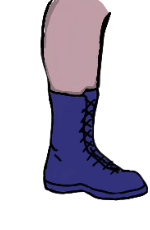
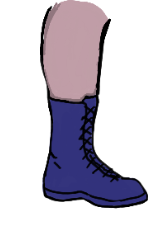
Adopt authored internal joint pivots for arms/legs; drop screen-space offsets
Replaces the earlier shoulder-overlap hack and per-pose screen-space forearm/
shin offsets with authored internal pivots (jointPivotFrac), fixing three
regressions Derek reported: shoulders reading as "football pads," Thesz's
elbows/knees separating, and George's elbow drifting as the arm rotated.

- Skeleton.js: remove RIG.SHOULDER_OVERLAP (upper arm now anchors at its true
  authored shoulder row instead of being pulled back to fake overlap, which
  was swelling the deltoid). Default elbow is now a stable hinge
  (forearm = upperArm + facing*0.78, ~45deg) instead of the drifting
  arm*1.1+0.52. Back the forearm off along its own axis so the elbow root
  can't orbit during a bend; far elbow uses the FAR_ARM_SCALE-rendered bone
  length so Lou's forearm no longer floats past the painted elbow. Split
  far/near arm depth bands by a hair so the upper-arm cap masks the forearm
  overlap slack. Record jointAttachmentPoints for the audit.
- thesz.js/george.js: forearm and Thesz's shin now carry jointPivotFrac and
  drop the pose-dependent screen-space offsets (kept only depth-bias
  cancellation).
- Re-cut thesz forearm.png/shin.png via the cutter's new jointPivotParts so
  the flesh overlap above the elbow/knee is preserved instead of flattened
  into an exposed cap.

Verified on Node 22: npm test 43/43, build clean, git diff --check clean,
joint-attachment audit 40/40 at 0.00px ink gap (both wrestlers, both facings,
[…]

Changed region(s): [[0.2667, 0.0, 0.9867, 0.913]]

diff --git a/src/Skeleton.js b/src/Skeleton.js
@@ -87,14 +87,6 @@ const TAU = Math.PI * 2;
 // dev-tool seam as P/TEX above) — each value keeps its original name and
 // meaning, and nothing in the game writes to it.
 export const RIG = {
-    // Upper arms use the same parent/child overlap rule as hips, elbows, and
-    // knees. Without a shoulder overlap the arm texture merely butt-joins the
-    // torso at one row; a strong bend (hammerlock, guard, get-up) rotates that
-    // flat edge into view and the wrestler appears to come apart. Textures
-    // with authored overlap metadata (`jointPivotFrac`) anchor directly at
-    // the true shoulder instead; this is the safe fallback for legacy and
-    // future wrestlers whose art has no metadata yet.
-    SHOULDER_OVERLAP: 12,
     // Unscaled px the forearm's placement pulls back up the upper-arm bone
     // (see updateUpright's far/near arm blocks) so a bent elbow doesn't show a
     // wedge-shaped gap between the two rotated rectangles.
@@ -445,8 +437,12 @@ export default class Skeleton {
         // constructed after the leg, so it always drew on top, poking the far
         // hand through the trunks instead of tucking behind the far thigh
         // (Derek, 2026-07-15). Split into two bands so the far leg wins.
-        this.farUpArm.setDepth(base);
+        // Parent cap draws over the child's authored overlap band. If the
+        // forearm wins this tie, that band sweeps across the upper-arm end as
+        // the elbow bends and the joint appears to drift. The tiny split is
+        // contained inside each existing far/near depth band.
         this.farForearm.setDepth(base);
+        this.farUpArm.setDepth(base + 0.00001);
         this.farThigh.setDepth(base + 0.0001);
         this.farShin.setDepth(base + 0.0001);
         this.farBoot?.setDepth(base + 0.0001);
@@ -456,8 +452,8 @@ export default class Skeleton {
         this.nearThigh.setDepth(base + 0.003);
         this.nearShin.setDepth(base + 0.003);
         this.nearBoot?.setDepth(base + 0.003);
-        this.nearUpArm.setDepth(base + 0.004);
         this.nearForearm.setDepth(base + 0.004);
+        this.nearUpArm.setDepth(base + 0.00401);
     }
 
     setVisible(v) {
@@ -553,9 +549,11 @@ export default class Skeleton {
         const below = (1 - childImg.originY) * childImg.displayHeight - localY;
         const side = childImg.displayWidth / 2 - Math.abs(localX);
         this.jointAttachmentMargins ??= {};
+        this.jointAttachmentPoints ??= {};
         this.jointAttachmentMargins[name] = {
             above, below, side, min: Math.min(above, below, side),
         };
+        this.jointAttachmentPoints[name] = { x: jointX, y: jointY };
     }
 
     // World-space endpoint (bottom) of a limb given its pivot and length.
@@ -582,6 +580,7 @@ export default class Skeleton {
 
     updateUpright(x, y, s, facing, pose, walkPhase, combatBlend = 0, lean = 0, moveBlend = 0, liftScale = 1, runBlend = 0) {
         this.jointAttachmentMargins = {};
+        this.jointAttachmentPoints = {};
         const thighH    = this._thighH * s;
         const shinH     = this._shinH  * s;
         const bootH     = P.bootH     * s;
@@ -652,9 +651,13 @@ export default class Skeleton {
         let rArmAng = facing * pose.rArm + swing * armSwing;
         // Walk: mild arm-tracking so forearm swings back with the arm and folds
         // slightly inward on the upswing — run elbow code below overrides at runBlend→1.
-        // Base bend ~30deg (0.52 rad) so the elbow reads as a relaxed bend
-        // instead of hanging straight off the upper arm (Derek, 2026-07-12).
-        const FOREARM_BEND = 0.52;
+        // Keep the default elbow as a real hinge: forearm angle is the upper
+        // arm angle plus a stable relative bend. The old `arm * 1.1 + .52`
+        // relationship slowly changed the joint angle while the shoulder
+        // moved, which made the overlapping artwork look as though it slid
+        // around the elbow; its ~30deg baseline also read almost straight at
+        // game scale. About 45deg remains relaxed but makes the split clear.
+        const FOREARM_BEND = 0.78;
         // Optional per-pose elbow override (pose.lForearm/rForearm, skeleton-
         // convention absolute angle) — lets a pose set the elbow bend
         // independent of the shoulder instead of always inheriting this
@@ -662,8 +665,8 @@ export default class Skeleton {
         // preserves the old formula exactly. Combat/run blends and ARM_FWD
         // below still apply on top either way, so an authored elbow angle
         // still composes with guard/run state.
-        let lForearmAng = pose.lForearm !== undefined ? facing * pose.lForearm : lArmAng * 1.1 + facing * FOREARM_BEND;
-        let rForearmAng = pose.rForearm !== undefined ? facing * pose.rForearm : rArmAng * 1.1 + facing * FOREARM_BEND;
+        let lForearmAng = pose.lForearm !== undefined ? facing * pose.lForearm : lArmAng + facing * FOREARM_BEND;
+        let rForearmAng = pose.rForearm !== undefined ? facing * pose.rForearm : rArmAng + facing * FOREARM_BEND;
 
         // Combat-ready guard: arms come up and forward as opponents close in.
         if (combatBlend > 0) {
@@ -801,15 +804,22 @@ export default class Skeleton {
         const farUpArmAng  = farAA  + facing * (this._farArmTilt ?? 0);
         const nearUpArmAng = nearAA + facing * this._nearArmTilt;
 
-        // Far arm. Both child roots go through _attachChild: shoulder first,
-        // then elbow. This makes the same invariant protect the full arm
-        // chain instead of fixing the elbow while leaving a rotatable
-        // butt-joint at the torso.
-        const farShoulder = this._attachChild(this.farUpArm, farShoulderX, farShoulderY, farUpArmAng, s, RIG.SHOULDER_OVERLAP);
-        this._placePart(this.farUpArm, farShoulder.x, farShoulder.y, armW, upperArmH, farUpArmAng, s * RIG.FAR_ARM_SCALE, facing);
+        // Upper-arm art anchors at its authored shoulder row. Pulling the
+        // whole image backward to manufacture overlap makes the rounded
+        // deltoid swell above the torso (the reported "football pads"
+        // distortion). Keep the shoulder at its true authored anchor; only
+        // child segments with overlap slack use _attachChild.
+        this._placePart(this.farUpArm, farShoulderX, farShoulderY, armW, upperArmH, farUpArmAng, s * RIG.FAR_ARM_SCALE, facing);
         this._recordJointAttachment('farShoulder', this.farUpArm, farShoulderX, farShoulderY, farUpArmAng);
-        const farTrueElbow = this._end(farShoulderX, farShoulderY, upperArmH, farUpArmAng);
-        const farElbow = this._attachChild(this.farForearm, farTrueElbow.x, farTrueElbow.y, farUpArmAng, s, RIG.ELBOW_OVERLAP);
+        // FAR_ARM_SCALE changes the rendered bone length as well as width;
+        // the elbow must end at that rendered length. The old full-length
+        // endpoint left a 10px invisible reach beyond the far upper arm, so
+        // Lou's forearm was correctly attached to the skeleton but visibly
+        // floating beyond the painted elbow.
+        const farTrueElbow = this._end(farShoulderX, farShoulderY, upperArmH * RIG.FAR_ARM_SCALE, farUpArmAng);
+        // Back off along the CHILD forearm's axis. Using the upper-arm angle
+        // makes the root orbit the elbow whenever the joint bends.
+        const farElbow = this._attachChild(this.farForearm, farTrueElbow.x, farTrueElbow.y, farFA, s, RIG.ELBOW_OVERLAP);
         const farForearmX = farElbow.x + facing * this._farForearmOffsetX * s;
         const farForearmY = farElbow.y + this._farForearmOffsetY * s;
         this._placePart(this.farForearm, farForearmX, farForearmY, armW, forearmH, farFA, s * RIG.FAR_ARM_SCALE, facing);
@@ -843,12 +853,11 @@ export default class Skeleton {
         this.nearThighRenderDebug = { x: nearHipRender.x, y: nearHipRender.y, angle: nearRenderAng, s, facing, texDims: this.nearThigh._texDims };
         this.nearShinRenderDebug = { x: nearShinRender.x, y: nearShinRender.y, angle: nearShinRenderAng, s: s * this._nearShinScale, facing, texDims: this.nearShin._texDims };
 
-        // Near arm — same shoulder/elbow attachment chain as the far arm.
-        const nearShoulder = this._attachChild(this.nearUpArm, nearShoulderX, armShoulderY, nearUpArmAng, s, RIG.SHOULDER_OVERLAP);
-        this._placePart(this.nearUpArm, nearShoulder.x, nearShoulder.y, armW, upperArmH, nearUpArmAng, s, facing);
+        // Near arm — shoulder stays on its authored anchor like the far arm.
+        this._placePart(this.nearUpArm, nearShoulderX, armShoulderY, armW, upperArmH, nearUpArmAng, s, facing);
         this._recordJointAttachment('nearShoulder', this.nearUpArm, nearShoulderX, armShoulderY, nearUpArmAng);
         const nearTrueElbow = this._end(nearShoulderX, armShoulderY, upperArmH, nearUpArmAng);
-        const nearElbow = this._attachChild(this.nearForearm, nearTrueElbow.x, nearTrueElbow.y, nearUpArmAng, s, RIG.ELBOW_OVERLAP);
+        const nearElbow = this._attachChild(this.nearForearm, nearTrueElbow.x, nearTrueElbow.y, nearFA, s, RIG.ELBOW_OVERLAP);
         const nearForearmX = nearElbow.x + facing * this._nearForearmOffsetX * s;
         const nearForearmY = nearElbow.y + this._nearForearmOffsetY * s;
         this._placePart(this.nearForearm, nearForearmX, nearForearmY, armW, forearmH, nearFA, s, facing);
@@ -924,6 +933,7 @@ export default class Skeleton {
     // do (it assumes a vertical torso), and it's all the sit/crawl states need.
     _applyGrounded(x, y, s, facing, g) {
         this.jointAttachmentMargins = {};
+        this.jointAttachmentPoints = {};
         const f = facing >= 0 ? 1 : -1;
         const ang = a => f * a; // mirror: sin flips with the angle sign, cos is untouched
 
@@ -972,19 +982,18 @@ export default class Skeleton {
         leg(g.farThigh,  g.farShin,  [this.farThigh,  this.farShin,  this.farBoot]);
         leg(g.nearThigh, g.nearShin, [this.nearThigh, this.nearShin, this.nearBoot]);
 
-        // Arms root at the shoulders. Upper arm and forearm both attach
-        // through the same _attachChild contract as updateUpright, so
-        // shoulder and elbow connectivity survives every get-up keypose.
+        // Arms root at the authored shoulder anchor. Forearms use their own
+        // axis for overlap so the elbow root cannot orbit during a bend.
         const arm = (up, fore, imgs) => {
             const [upImg, foreImg] = imgs;
             const uA = ang(up), fA = ang(fore);
-            const shoulderRender = this._attachChild(upImg, shX, shY, uA, s, RIG.SHOULDER_OVERLAP);
-            this._placePart(upImg, shoulderRender.x, shoulderRender.y, armW, upperArmH, uA, s, facing);
             const side = upImg === this.farUpArm ? 'far' : 'near';
+            const depthScale = side === 'far' ? RIG.FAR_ARM_SCALE : 1;
+            this._placePart(upImg, shX, shY, armW, upperArmH, uA, s * depthScale, facing);
             this._recordJointAttachment(`${side}Shoulder`, upImg, shX, shY, uA);
-            const elbow = this._end(shX, shY, upperArmH, uA);
-            const elbowRender = this._attachChild(foreImg, elbow.x, elbow.y, uA, s, RIG.ELBOW_OVERLAP);
-            this._placePart(foreImg, elbowRender.x, elbowRender.y, armW, forearmH, fA, s, facing);
+            const elbow = this._end(shX, shY, upperArmH * depthScale, uA);
+            const elbowRender = this._attachChild(foreImg, elbow.x, elbow.y, fA, s, RIG.ELBOW_OVERLAP);
+            this._placePart(foreImg, elbowRender.x, elbowRender.y, armW, forearmH, fA, s * depthScale, facing);
             this._recordJointAttachment(`${side}Elbow`, foreImg, elbow.x, elbow.y, fA);
         };
         arm(g.farArm,  g.farFore,  [this.farUpArm,  this.farForearm]);

diff --git a/src/characters/thesz.js b/src/characters/thesz.js
@@ -61,7 +61,10 @@ export const thesz = {
         // length / torso ink height: target 207.4/380 = 0.546, rendered
         // 0.5625) — 63/1.031 = 61. Width stays the TEX default (limb widths
         // are deliberately stylized wider, not tracked against the ref).
-        forearm:  { key: 'thesz_forearm', box: { w: 44, h: 61 } },
+        // Authored elbow overlap retained by the cutter (2026-07-25).
+        // Internal pivot keeps the forearm on the true elbow through bends;
+        // no screen-space seating offset is needed.
+        forearm:  { key: 'thesz_forearm', box: { w: 44, h: 61 }, jointPivotFrac: 0.09615384615384616 },
         // Both dims re-derived against the reference (2026-07-13 recomposite
         // probe: live part transforms re-rendered filter-free and measured
         // ink-vs-ink against the identity-positioned New Lou layers —
@@ -103,39 +106,21 @@ export const thesz = {
         // shin always needs this since its true box depends on this
         // character's own boot-art fillFrac (see Skeleton.js's TEX comment).
         // 51×95 from the 2026-07-13 recomposite probe: ref shin ink (boot
-        // included) spans 253/380 of torso height at 131/380 wide (the old
-        // 54×92 measured 5% wide / 9% tall against that). Height is NOT the
-        // ink-match value (85): the cutter flattens the shin PNG's top into
-        // a straight opaque cap, and at the ink-matched position that flat
-        // edge sat exposed across the middle of the knee — the leg read as
-        // cleaved in half (Derek, 2026-07-13). The +12 y-shift below rides
-        // the cap ~8px up under the thigh's opaque ink (like the raw layers'
-        // own 29-ref-px overlap in LouTheszFullBodyRef.png) and h grows to
-        // 95 so the sole stays on the ref's 404/380 hip→sole line (probe:
-        // sole within 0.5px, visible knee seam gone).
-        // h 95→100 (2026-07-24 all-joint attachment audit): the old
-        // nearShinOffsetY=25 pushed the true knee 1.0–1.7px outside this
-        // render box in every sampled upright pose. Raising the child root
-        // five pixels restores real overlap; growing the display height by
-        // the same five preserves the already-approved boot/ground seat.
-        shin:     { key: 'thesz_shin', box: { w: 51, h: 100 } },
-        // Knee alignment: the shin hangs off the IK knee (computed from the
-        // un-offset hip bone), so the thigh's render offsets/tilt above pull
-        // the thigh art away from where the shin art starts — these re-join
-        // them. x puts the shin ink centroid on the ref's (probe Δ -0.4px);
-        // y carries the cap-tuck described above.
-        // Shin offsets: multiple same-day rig-tuner export rounds
-        // (2026-07-14/15, live iteration — the first two exports were tuned
-        // facing left / in the wrong idle pose, superseded). Geometry note
-        // (Codex's cleave mechanism): net cap position vs the true knee =
-        // -KNEE_OVERLAP(18) - NEAR_SHIN_UP(5) + nearShinOffsetY. At the
-        // 2026-07-24: nearShinOffsetY 25→20 after the all-joint audit proved
-        // the old value placed the true knee outside the child render box
-        // across both facings and every sampled move pose. The matching
-        // shin.box.h 95→100 change above keeps the sole in place while the
-        // cap moves up into a real 3px tuck.
-        nearShinOffsetX: -12,
-        nearShinOffsetY: 20,
+        // included) spans 253/380 of torso height at 131/380 wide. The
+        // authored overlap above the knee is now preserved instead of being
+        // flattened into the exposed cap that previously read as a cleave.
+        // Authored knee overlap retained by the cutter (2026-07-25), same
+        // contract as George. The display height remains the approved 95;
+        // jointPivotFrac grows only the above-knee overlap band.
+        shin:     { key: 'thesz_shin', box: { w: 51, h: 95 }, jointPivotFrac: 0.03944976664210268 },
+        // Earlier screen-space shin offsets were tuned to the now-removed
+        // flat cap. With an authored internal pivot they would drift as the
+        // knee rotates, so only cancel the shared near-leg depth bias here.
+        // Cancel the shared near-shin depth bias so the authored internal
+        // pivot stays exactly on the true knee. Any additional fixed X/Y
+        // offset would reintroduce pose-dependent drift.
+        nearShinOffsetX: -5,
+        nearShinOffsetY: 5,
         // Far leg NO LONGER mirrors the near leg. The 2026-07-13 pass kept
         // every far offset in lockstep with the near leg's net value so the
         // far leg hid pixel-identically behind the near one (single-leg
@@ -143,11 +128,10 @@ export const thesz = {
         // broke that: the far leg now renders forward of the near leg (both
         // legs visible). If a future pass wants the hidden-leg look back,
         // see git history for the lockstep derivation.
-        // Far cap vs knee = -KNEE_OVERLAP(18) + farShinOffsetY. At the
-        // current farShinOffsetY (15) that's -3px tuck (see near-shin note
-        // above for the same formula pattern).
-        farShinOffsetX: 12,
-        farShinOffsetY: 15,
+        // Far shin has no shared depth bias, so its internal pivot needs no
+        // compensating offset.
+        farShinOffsetX: 0,
+        farShinOffsetY: 0,
         farLegOffsetX: 9,
         farLegOffsetY: 4,
         farLegTilt: -5.5 * Math.PI / 180,

diff --git a/src/characters/george.js b/src/characters/george.js
@@ -82,7 +82,7 @@ export const george = {
         // so the shoulder/elbow joint chain doesn't move, just the rendered
         // art's length).
         upperArm: { key: 'george_upper_arm', box: { w: 55, h: 71 } },
-        // nearForearmOffsetX: live rig-tuner pass (Derek, 2026-07-19).
+        // Forearms anchor directly at the true elbow through jointPivotFrac.
         // jointPivotFrac (2026-07-21/22, general joint-attachment contract —
         // see AI_HANDOFF.md's 2026-07-19 Codex entries and Skeleton.js's
         // img()/_attachChild comments): George's forearm art carries
@@ -110,27 +110,10 @@ export const george = {
         // dimensions again: 38→36.1 (rounded to 36), 63→59.85 (rounded to
         // 60).
         forearm:  { key: 'george_forearm', box: { w: 36, h: 60 }, jointPivotFrac: 0.1804878048780488 },
-        // Left as-is after wiring jointPivotFrac above (2026-07-22): unlike
-        // the shin's offsets (see nearShinOffsetY's comment below — those
-        // were ~13-27px, comparable to RIG.KNEE_OVERLAP=18, i.e. clearly the
-        // old backoff compensation), this is only 2px against
-        // RIG.ELBOW_OVERLAP=17 — an order of magnitude too small to be that
-        // same compensation, so it's left in place as a minor fist-position
-        // nudge rather than zeroed.
-        nearForearmOffsetX: 2,
-        // nearForearmOffsetY: live rig-tuner export (Derek, 2026-07-24 —
-        // post-shoulder-attachment-fix pass), same category as
-        // nearForearmOffsetX above.
-        nearForearmOffsetY: -3,
-        // farForearmOffsetX/Y (2026-07-24, live rig-tuner export, Derek —
-        // re-tuned after the shoulder attachment fix landed; supersedes the
-        // 2026-07-23 -3/-6 values) — the far elbow was left un-nudged when
-        // jointPivotFrac was wired in (see the comment above), but reads
-        // slightly off in the actual game view; these are a small
-        // live-tuned seat, same category as nearForearmOffsetX above, not a
-        // sign the joint-attachment math needs revisiting.
-        farForearmOffsetX: -4,
-        farForearmOffsetY: -8,
+        // Do not add screen-space forearm offsets here. They may line up one
+        // idle frame, but they do not rotate with the limb and therefore make
+        // the elbow drift in authored poses. The internal pivot is the only
+        // structural seat for both near and far forearms.
         // "Thighs need to be longer" (Derek, 2026-07-19) — tried as a
         // per-character `thighH` bone-length bump first; wrong lever.
         // `Skeleton.js`'s `img()` always stashes a fixed `_texDims` display

diff --git a/AI_HANDOFF.md b/AI_HANDOFF.md
@@ -107,6 +107,103 @@ The current rig expects six assets in `src/assets/wrestlers/george/`:
 
 ## Handoff Log
 
+### 2026-07-25 (stable visible elbow hinge) — Codex
+
+Derek's follow-up playtest found that the arm pieces still appeared to drift
+while raising/lowering and that the elbow read nearly straight. An isolated
+five-angle sweep reproduced the presentation failure even though the true
+elbow and painted-pixel connectivity audit remained exact.
+
+The default forearm formula was not a stable hinge: `arm * 1.1 + 0.52` slowly
+changed the relative elbow angle as the shoulder rotated, while the 0.52-rad
+(about 30-degree) baseline was too shallow to read at game scale. In addition,
+the forearm rendered above the upper arm at equal depth, so its authored
+overlap band swept visibly across the upper-arm cap during rotation.
+
+Changed the default to `forearm = upperArm + facing * 0.78`, producing a
+stable, clearly visible bend of about 45 degrees. Explicit per-pose
+`lForearm`/`rForearm` overrides, combat guard, and run folding still work as
+before. Split each arm's existing depth band by a tiny amount so the upper-arm
+cap masks the forearm's overlap slack; this keeps the visible elbow seat from
+crawling without changing either true joint position or the wrestler's
+near/far layering. The corrected angle sweep reads as a two-segment arm from
+hanging through overhead, and the full painted-pixel joint audit still passes
+both wrestlers, both facings, all sampled poses, and get-up frames at 0px
+maximum gap.
+
+Verification under Node 25.8.1: `npm test` 43/43, build clean, `git diff
+--check` clean, and the arm-heavy `hammerlock`, `dodge`/double-axe-handle,
+and `clothesline` browser scenarios pass. The rig-tuner smoke check confirms
+the new far-arm depth ordering and independent `lForearm` override, but its
+existing pointer/hash restoration section currently finishes 22/28: the head
+drag visibly moves the sprite without updating `headOffset`, after which six
+baseline-restore hashes fail. The same result reproduced twice; no rig-tuner
+files were changed in this pass, so that harness problem is recorded rather
+than folded into the arm fix.
+
+Files touched: `src/Skeleton.js`, handoff files.
+Action required: Derek — playtest ordinary walking/guard plus the overhead and
+hammerlock poses for elbow-bend feel.
+Priority: high (visible articulation follow-up).
+
+### 2026-07-25 (joint attachment correction: preserve silhouettes and authored pivots) — Codex
+
+Derek reported three regressions after the first all-joint pass: shoulders read
+like football pads, Lou Thesz's elbows/knees still separated, and George's
+elbow drifted as his arm rotated. The earlier 2026-07-24 implementation below
+is retained for history, but its shoulder-overlap and rectangle-audit
+conclusions are superseded by this correction.
+
+Root causes were structural. Moving the whole upper-arm image 12px behind the
+shoulder enlarged the visible deltoid silhouette instead of merely protecting
+the seam. George's live-tuned forearm X/Y offsets were screen-space values, so
+they could only line up in one pose. The elbow fallback backed the child up
+along the upper-arm angle rather than the child's own angle. Finally, the far
+arm art renders at 85% depth scale while its elbow had been calculated from a
+100%-length bone. The old audit only checked display rectangles, so transparent
+pixels could hide all of these failures.
+
+Corrected the shared contract in `Skeleton.js`: upper arms again anchor at the
+authored shoulder without artificial silhouette-changing backoff; fallback
+forearms overlap along their own rotation; and far-arm elbow endpoints use the
+same 85% scale as the rendered limb in upright and grounded paths. Removed
+George's screen-space forearm offsets while retaining Derek's shared
+`armOffsetY: 1`; George's existing `jointPivotFrac` metadata now keeps each
+forearm's authored internal pivot exactly on the true elbow in every pose.
+
+Lou's forearm and shin are now cutter-preserved joint-pivot parts, matching the
+proven George path. Re-cut both without shaving their authored top overlap and
+recorded their measured `jointPivotFrac` values in `thesz.js` (forearm
+0.0961538462, shin 0.0394497666). Lou's shin display box is restored to its
+authored 51x95 size; near-shin offsets cancel the legacy shared visual nudge so
+the internal pivot remains on the actual knee. This is character metadata over
+the shared rig contract, so future wrestlers can opt into the same durable
+behavior without pose-specific offsets.
+
+Upgraded `tools/debug/joint_attachment_audit.mjs` to inverse-transform samples
+into the actual PNG alpha data and measure painted parent/child pixels around
+every true neck, shoulder, elbow, hip, and knee. It passes George and Thesz in
+both facings across six extreme upright poses and four get-up samples, with a
+maximum painted gap of 0px. Close-up screenshots of idle and
+`hammerlockCrank` confirm the shoulder-pad distortion is gone and the reported
+elbow/knee chains remain seated.
+
+Verification under Node 25.8.1: painted-pixel joint audit all pass; `npm test`
+43/43; all 16 `debug:play` scenarios pass (the combined runner stopped after
+five because of its existing repeated local-server lifecycle behavior, so the
+remaining eleven were run individually); `npm run build` clean; `git diff
+--check` clean.
+
+Files touched: `src/Skeleton.js`, `src/characters/george.js`,
+`src/characters/thesz.js`, Lou's generated `forearm.png`/`shin.png`,
+`tools/wrestler-cutter/process-parts.mjs`,
+`tools/debug/joint_attachment_audit.mjs`, and handoff files.
+Action required: Derek — playtest the corrected silhouettes and joint motion.
+The separate historical Thesz thigh crop/art-seam tasks remain open; this
+change fixes runtime attachment without claiming that separate source-art work
+is complete.
+Priority: high (shared rig integrity regression corrected).
+
 ### 2026-07-25 (George arm-seat retune, post-shoulder-attachment-fix) — Claude
 
 Derek live-tuned George's arm seating in `tools/rig-tuner/` after playtesting
